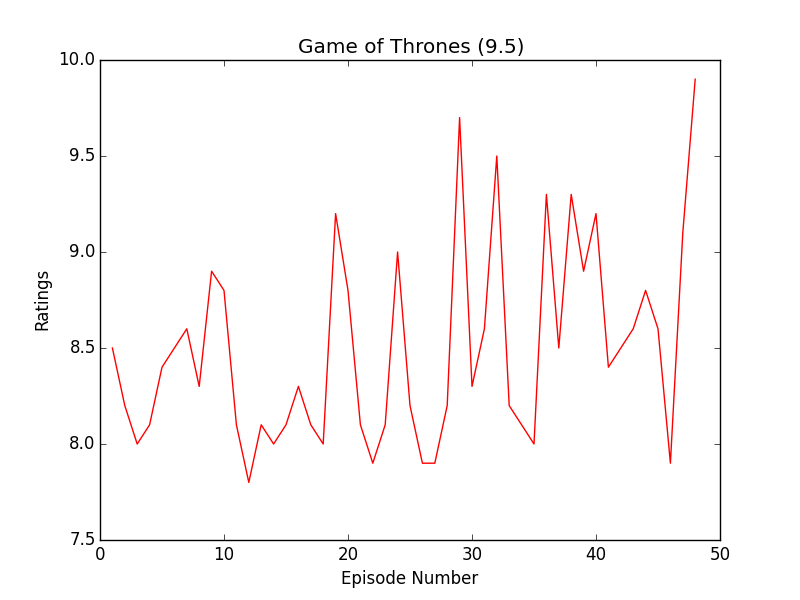
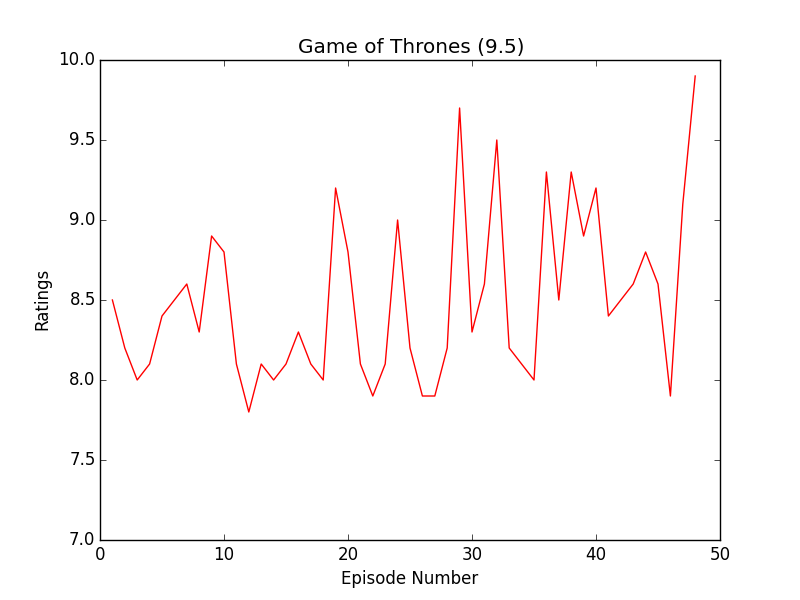
fixed y-axis

diff --git a/tvstats/graph.py b/tvstats/graph.py
@@ -27,4 +27,9 @@ def graph(data):
     plt.ylabel('Ratings')
     x, y = graphdata(data)
     plt.plot(x, y, 'r')
+    x1, x2, y1, y2 = plt.axis()
+    y2 = 10
+    if y1 > 7:
+        y1 = 7
+    plt.axis([x1, x2, y1, y2])
     plt.show()
